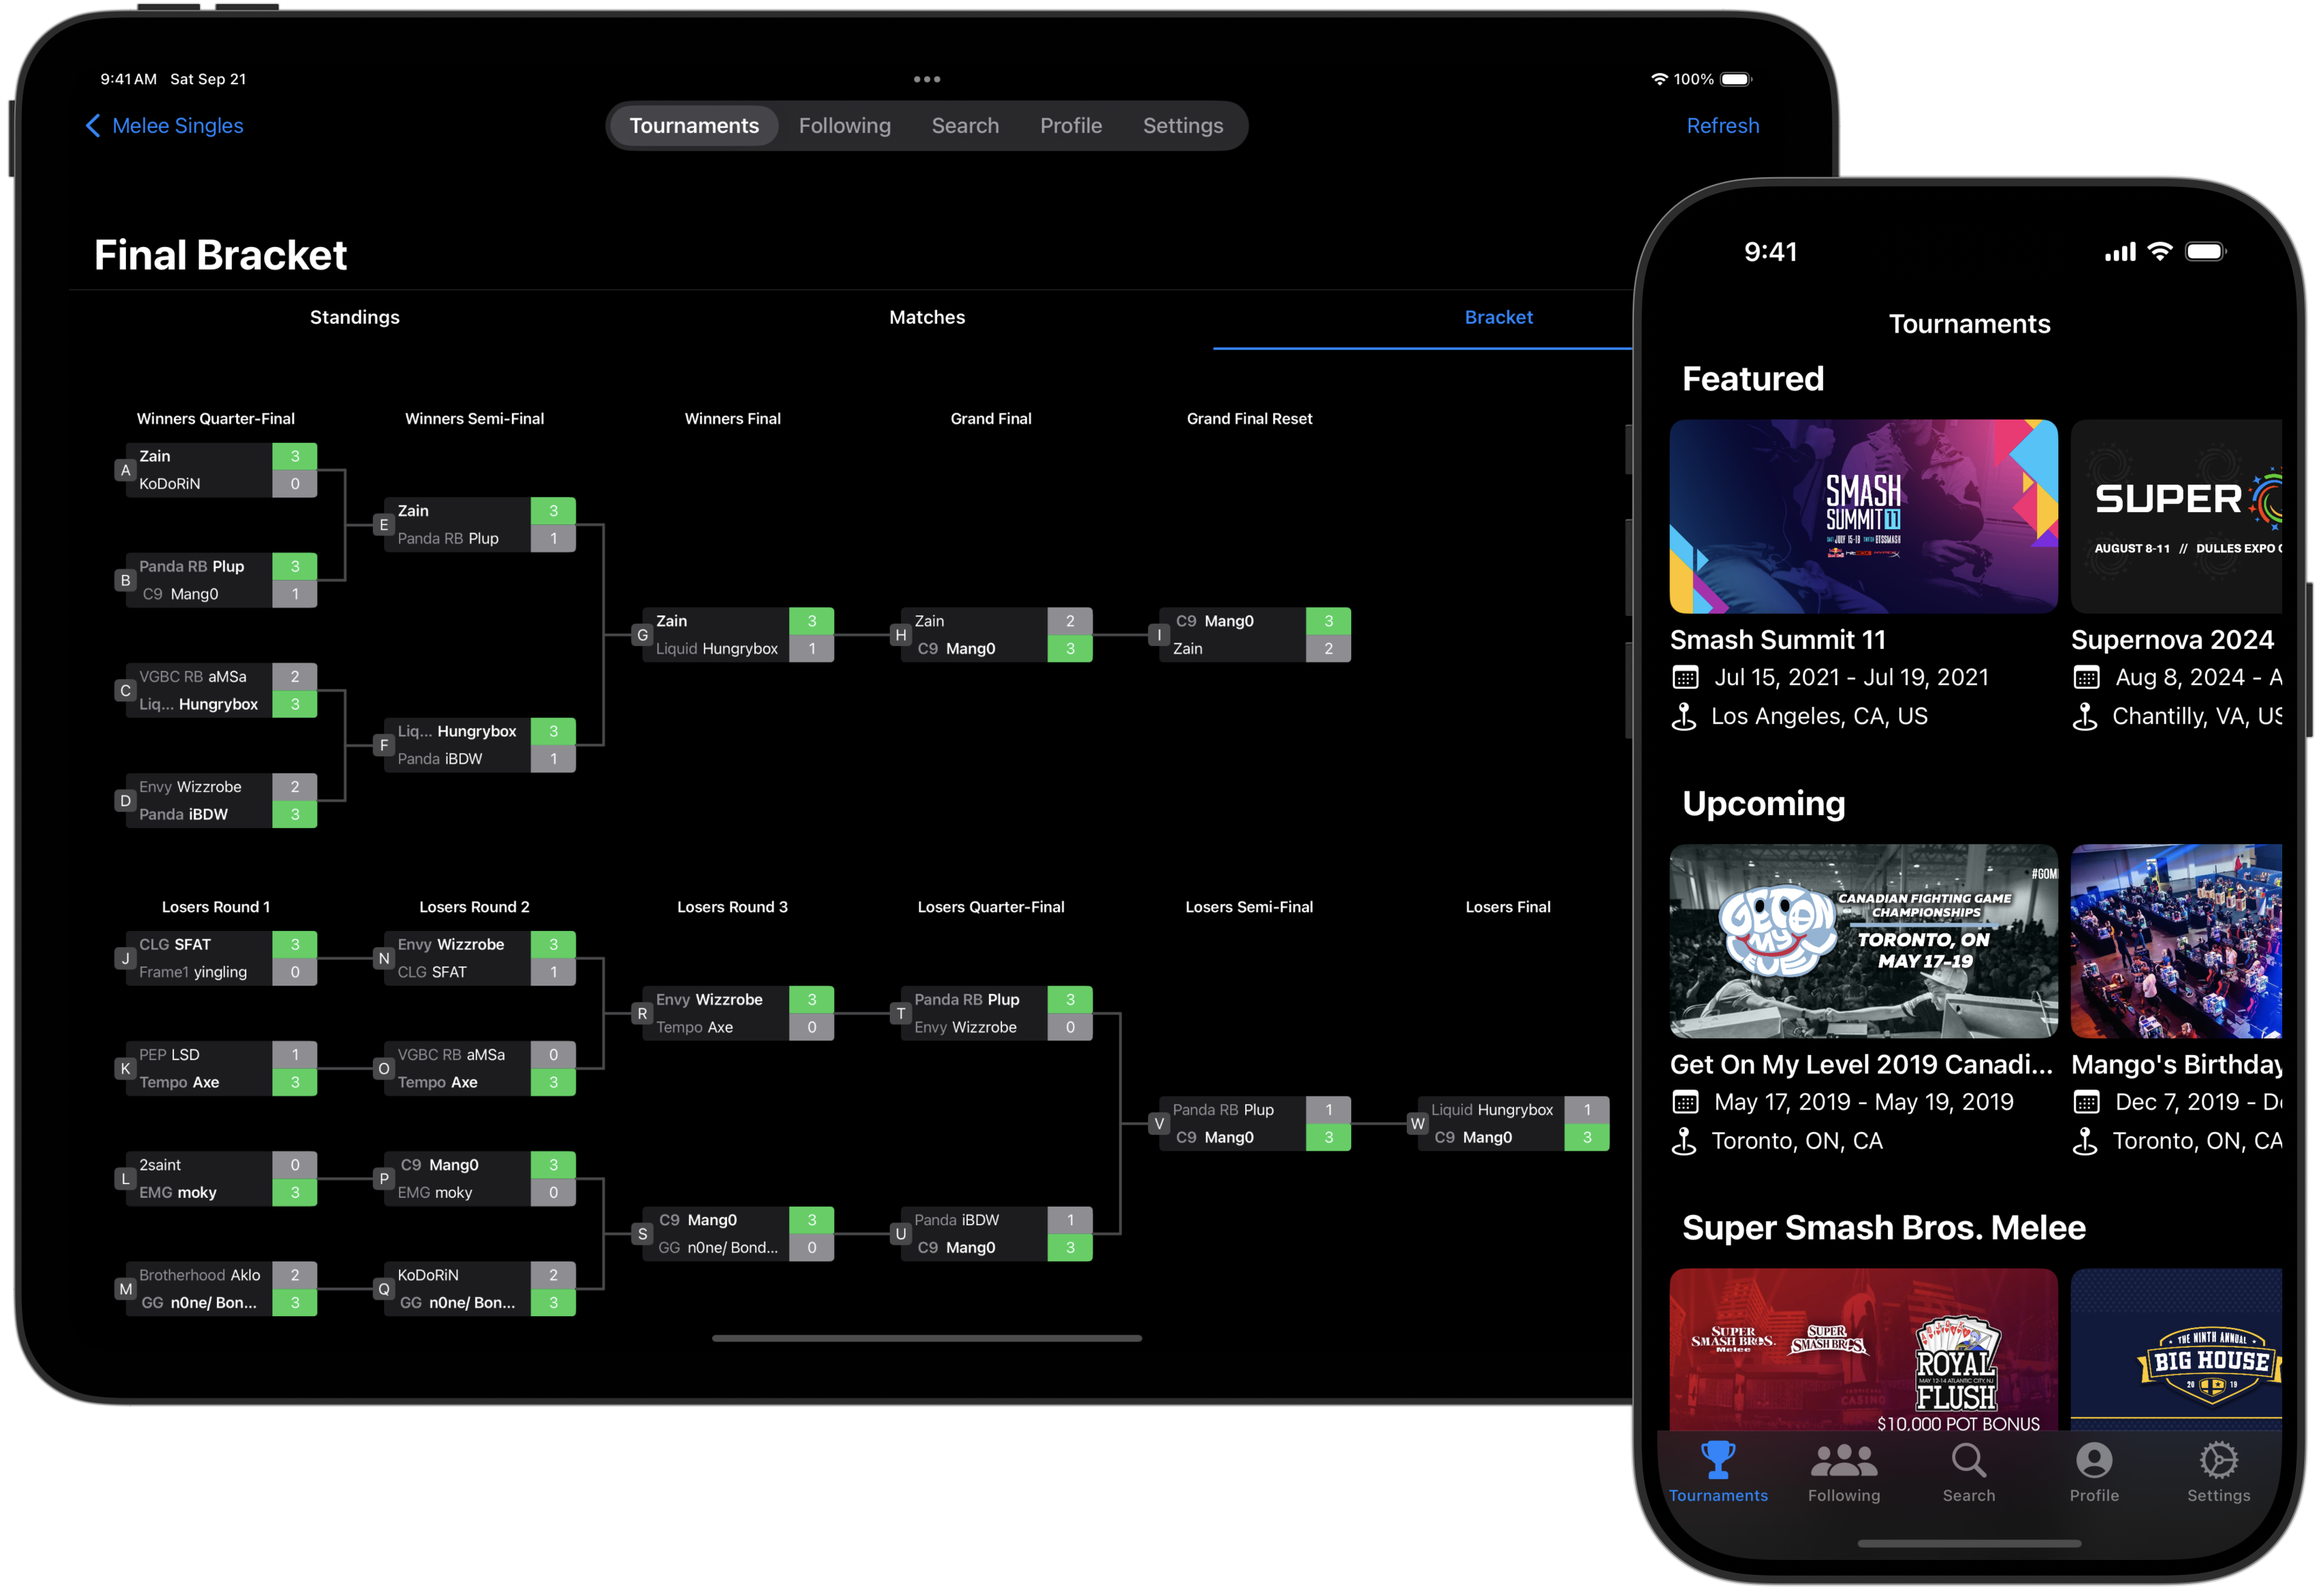
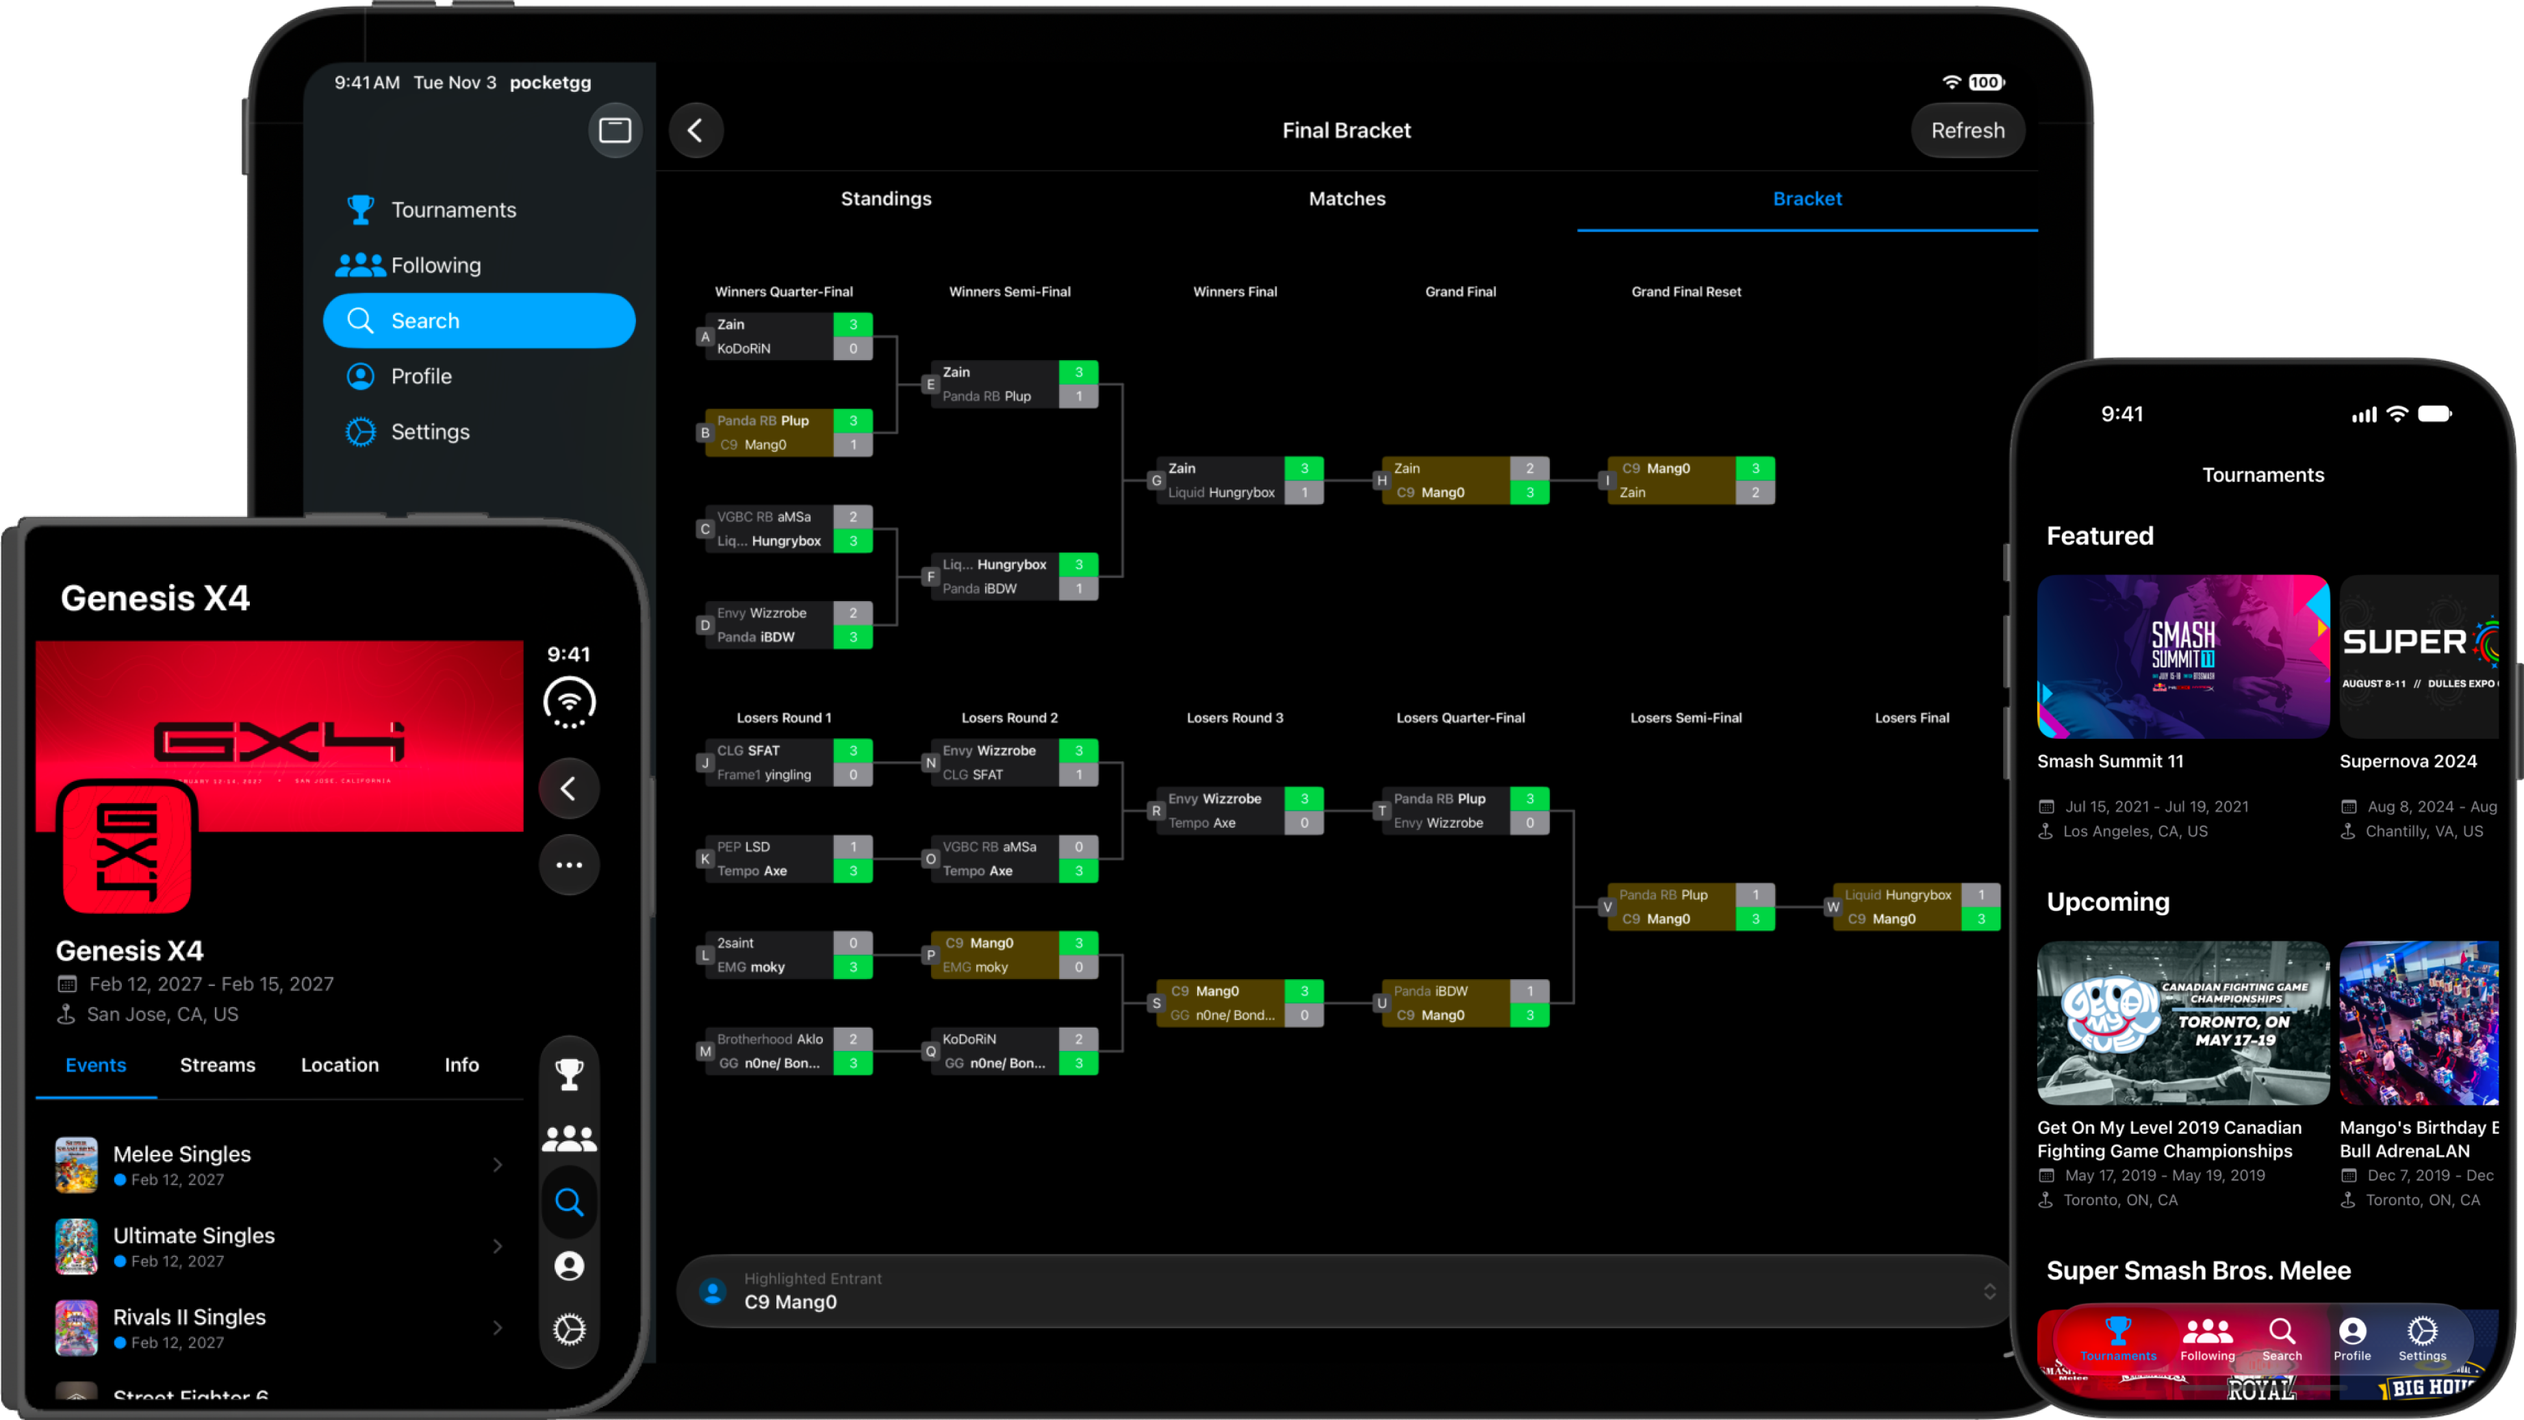
Update images and add achievement section to privacy policy

diff --git a/privacy/index.html b/privacy/index.html
@@ -66,6 +66,15 @@
                     <a href="https://support.apple.com/en-ca/102515" target="_blank">Apple's article about privacy and Location Services in iOS, iPadOS, and watchOS</a>.
                 </p>
 
+                <h2>Achievements</h2>
+                <p>
+                    pocketgg features unlockable achievements, which show up as badges on your profile page.
+                    Achievements are a pocketgg feature, and don't appear on your start.gg profile.
+                    Some of these achievements are calculated from your start.gg data, which includes completed singles events, tournaments organized, and placements.
+                    These results are saved only on your device, in the app's local storage; nothing is sent to an external server and there's no analytics or tracking tied to achievements.
+                    An option is present to hide achievements on your profile page, which also takes effect if you choose to share your profile as an image. 
+                </p>
+
                 <h2>Changes to this Privacy Policy</h2>
                 <p>
                     This Privacy Policy may be updated from time to time. Please check this page periodically for any changes.

diff --git a/styles.css b/styles.css
@@ -12,7 +12,7 @@
     --shadow: 0 1px 2px rgba(0, 0, 0, 0.04), 0 8px 24px rgba(0, 0, 0, 0.06);
     --header-bg: rgba(250, 250, 250, 0.72);
     --radius: 20px;
-    --max: 1100px;
+    --max: 1200px;
 }
 
 @media (prefers-color-scheme: dark) {
@@ -193,7 +193,7 @@ header {
 }
 
 .download-button {
-    height: 54px;
+    height: 76px;
     margin: 40px 0 8px;
     transition: transform 0.15s;
 }
@@ -203,8 +203,12 @@ header {
 }
 
 .img-container {
-    margin: 56px auto 0;
-    max-width: 960px;
+    /* Break out of the content column so the screenshot can use the full window */
+    position: relative;
+    left: 50%;
+    transform: translateX(-50%);
+    width: min(1600px, calc(100vw - 32px));
+    margin-top: 48px;
 }
 
 .img-container img {
